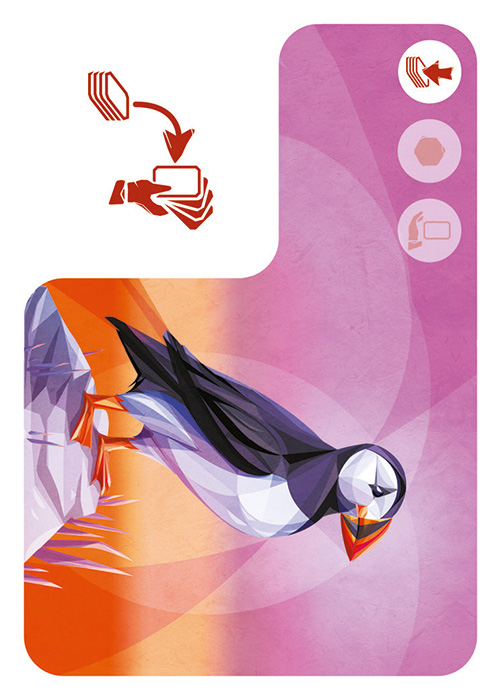
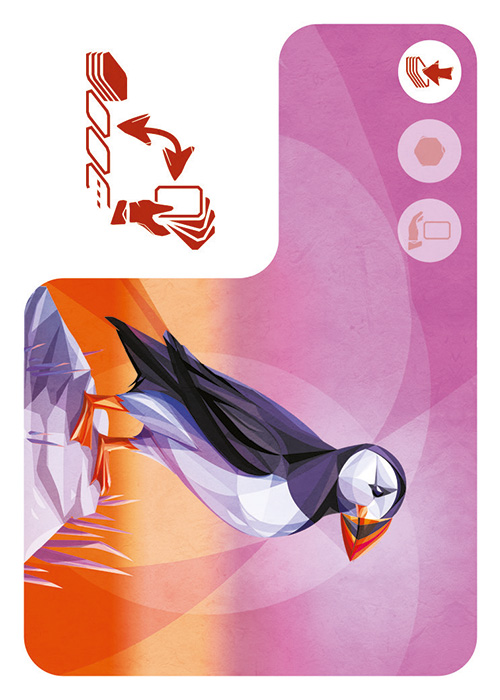
Add puffin effect

Changed region(s): [[0.15, 0.06, 0.45, 0.36]]

diff --git a/rules/src/rules/PlayAnimalCardsRule.ts b/rules/src/rules/PlayAnimalCardsRule.ts
@@ -1,4 +1,5 @@
 import { isMoveItemType, ItemMove, MaterialMove, PlayerTurnRule } from '@gamepark/rules-api'
+import isEqual from 'lodash/isEqual'
 import { LocationType } from '../material/LocationType'
 import { MaterialType } from '../material/MaterialType'
 import { PowerCard } from '../material/PowerCard'
@@ -7,12 +8,12 @@ import { RuleId } from './RuleId'
 
 export class PlayAnimalCardsRule extends PlayerTurnRule {
   onRuleStart() {
-    const topPileCard = this.material(MaterialType.AnimalCard).location(LocationType.AnimalPile).player(this.player).sort(item => -item.location.x!).getItem()
+    const topPileCard = this.animalPile.sort(item => -item.location.x!).getItem()
+
 
     if (!topPileCard) {
       this.memorize<number>(Memory.DepositValue, 1)
-    }
-    else {
+    } else {
       const depositValue = 6 - ((topPileCard.id % 10))
       this.memorize<number>(Memory.DepositValue, depositValue)
     }
@@ -21,39 +22,109 @@ export class PlayAnimalCardsRule extends PlayerTurnRule {
   }
 
   getPlayerMoves() {
-    return this.material(MaterialType.AnimalCard).location(LocationType.PlayerHand).player(this.player)
-      .moveItems({ type: LocationType.AnimalPile, player: this.player })
-  }
+    const moves: MaterialMove[] = []
+    const hand = this.hand
 
-  afterItemMove(move: ItemMove): MaterialMove[] {
-    if (isMoveItemType(MaterialType.AnimalCard)(move) && move.location.type === LocationType.AnimalPile) {
-      this.memorize(Memory.DepositValue, value => value - 1)
+    moves.push(
+      ...hand.moveItems({ type: LocationType.AnimalPile, player: this.player })
+    )
 
-      if (this.remind(Memory.DepositValue) === 0) {
-        const animalId = Math.floor(this.material(MaterialType.AnimalCard).getItem(move.itemIndex)!.id / 100);
-        const powerCard = this.material(MaterialType.PowerCard).id<PowerCard>(id => Math.floor(id / 10) === animalId)
-        return [
-          powerCard.moveItem({ type: LocationType.PowerPile, player: this.player }),
-          this.rules().startRule(RuleId.MoveAnimalTokens)
-        ]
-      }
-      if (!this.hand.length) {
-        return [
-          ...this
-            .material(MaterialType.AnimalCard)
-            .location(LocationType.AnimalCardsDeck)
-            .deck()
-            .limit(this.remind(Memory.DepositValue))
-            .moveItems({
-              type: LocationType.PenaltyZone,
-              player: this.player
-            }),
-
-        this.rules().startRule(RuleId.MoveAnimalTokens)]
+    if (this.canGetVisibleCardInHand) {
+      const topPileCard = this.animalPile.sort(item => -item.location.x!)
+      if (topPileCard.length) {
+        moves.push(
+          topPileCard.moveItem({
+            type: LocationType.PlayerHand,
+            player: this.player
+          })
+        )
       }
     }
 
+    if (this.canExchangeCardWithRiver) {
+      const river = this.river
+      for (const card of river.getItems()) {
+        moves.push(
+          ...hand.moveItems({
+            ...card.location
+          })
+        )
+      }
+    }
+
+    return moves
+  }
+
+  beforeItemMove(move: ItemMove): MaterialMove[] {
+    if (!isMoveItemType(MaterialType.AnimalCard)(move)) return []
+    const moves: MaterialMove[] = []
+    const cardInRiver = this.river.filter((item) => isEqual(item.location, move.location))
+    if (cardInRiver.length) {
+      moves.push(
+        cardInRiver.moveItem({
+          type: LocationType.PlayerHand,
+          player: this.player
+        })
+      )
+    }
+
+    if (move.location.type === LocationType.PlayerHand) {
+      this.memorize(Memory.PuffinUsed, true)
+    }
+
+    return moves
+  }
+
+  afterItemMove(move: ItemMove): MaterialMove[] {
+    if (!isMoveItemType(MaterialType.AnimalCard)(move) || move.location.type !== LocationType.AnimalPile) return []
+    this.memorize(Memory.DepositValue, value => value - 1)
+
+    if (this.remind(Memory.DepositValue) === 0) {
+      const animalId = Math.floor(this.material(MaterialType.AnimalCard).getItem(move.itemIndex)!.id / 100)
+      const powerCard = this.material(MaterialType.PowerCard).id<PowerCard>(id => Math.floor(id / 10) === animalId)
+      return [
+        powerCard.moveItem({ type: LocationType.PowerPile, player: this.player }),
+        this.rules().startRule(RuleId.MoveAnimalTokens)
+      ]
+    }
+    if (!this.hand.length) {
+      return [
+        ...this
+          .material(MaterialType.AnimalCard)
+          .location(LocationType.AnimalCardsDeck)
+          .deck()
+          .limit(this.remind(Memory.DepositValue))
+          .moveItems({
+            type: LocationType.PenaltyZone,
+            player: this.player
+          }),
+        this.rules().startRule(RuleId.MoveAnimalTokens)
+      ]
+    }
+
     return []
+  }
+
+  get canExchangeCardWithRiver() {
+    if (!this.hand.length || this.hasPlacedCard || this.remind(Memory.PuffinUsed)) return false
+    return this
+      .material(MaterialType.PowerCard)
+      .location(LocationType.PowerPile)
+      .player(this.player)
+      .id((id: PowerCard) => id === PowerCard.Puffin1)
+  }
+
+  get canGetVisibleCardInHand() {
+    if (!this.animalPile.length || this.hasPlacedCard || this.remind(Memory.PuffinUsed)) return false
+    return this
+      .material(MaterialType.PowerCard)
+      .location(LocationType.PowerPile)
+      .player(this.player)
+      .id((id: PowerCard) => id === PowerCard.Puffin2)
+  }
+
+  get hasPlacedCard() {
+    return this.remind(Memory.HasPlacedCard)
   }
 
   get hand() {
@@ -61,5 +132,24 @@ export class PlayAnimalCardsRule extends PlayerTurnRule {
       .material(MaterialType.AnimalCard)
       .location(LocationType.PlayerHand)
       .player(this.player)
+  }
+
+  get animalPile() {
+    return this
+      .material(MaterialType.AnimalCard)
+      .location(LocationType.AnimalPile)
+      .player(this.player)
+  }
+
+  get river() {
+    return this
+      .material(MaterialType.AnimalCard)
+      .location(LocationType.River)
+  }
+
+  onRuleEnd() {
+    this.forget(Memory.HasPlacedCard)
+    this.forget(Memory.PuffinUsed)
+    return []
   }
 }

diff --git a/rules/src/rules/MoveAnimalTokensRule.ts b/rules/src/rules/MoveAnimalTokensRule.ts
@@ -1,4 +1,4 @@
-import { isMoveItemType, ItemMove, Material, MaterialMove, PlayerTurnRule } from '@gamepark/rules-api'
+import { isMoveItemType, ItemMove, MaterialMove, PlayerTurnRule } from '@gamepark/rules-api'
 import { landscapes } from '../material/Landscape'
 import { LocationType } from '../material/LocationType'
 import { MaterialType } from '../material/MaterialType'

diff --git a/rules/src/rules/Memory.ts b/rules/src/rules/Memory.ts
@@ -2,5 +2,7 @@ export enum Memory {
   DepositValue,
   DrawValue,
   TokensMoved,
-  WalrusUsed
+  WalrusUsed,
+  HasPlacedCard,
+  PuffinUsed
 }
